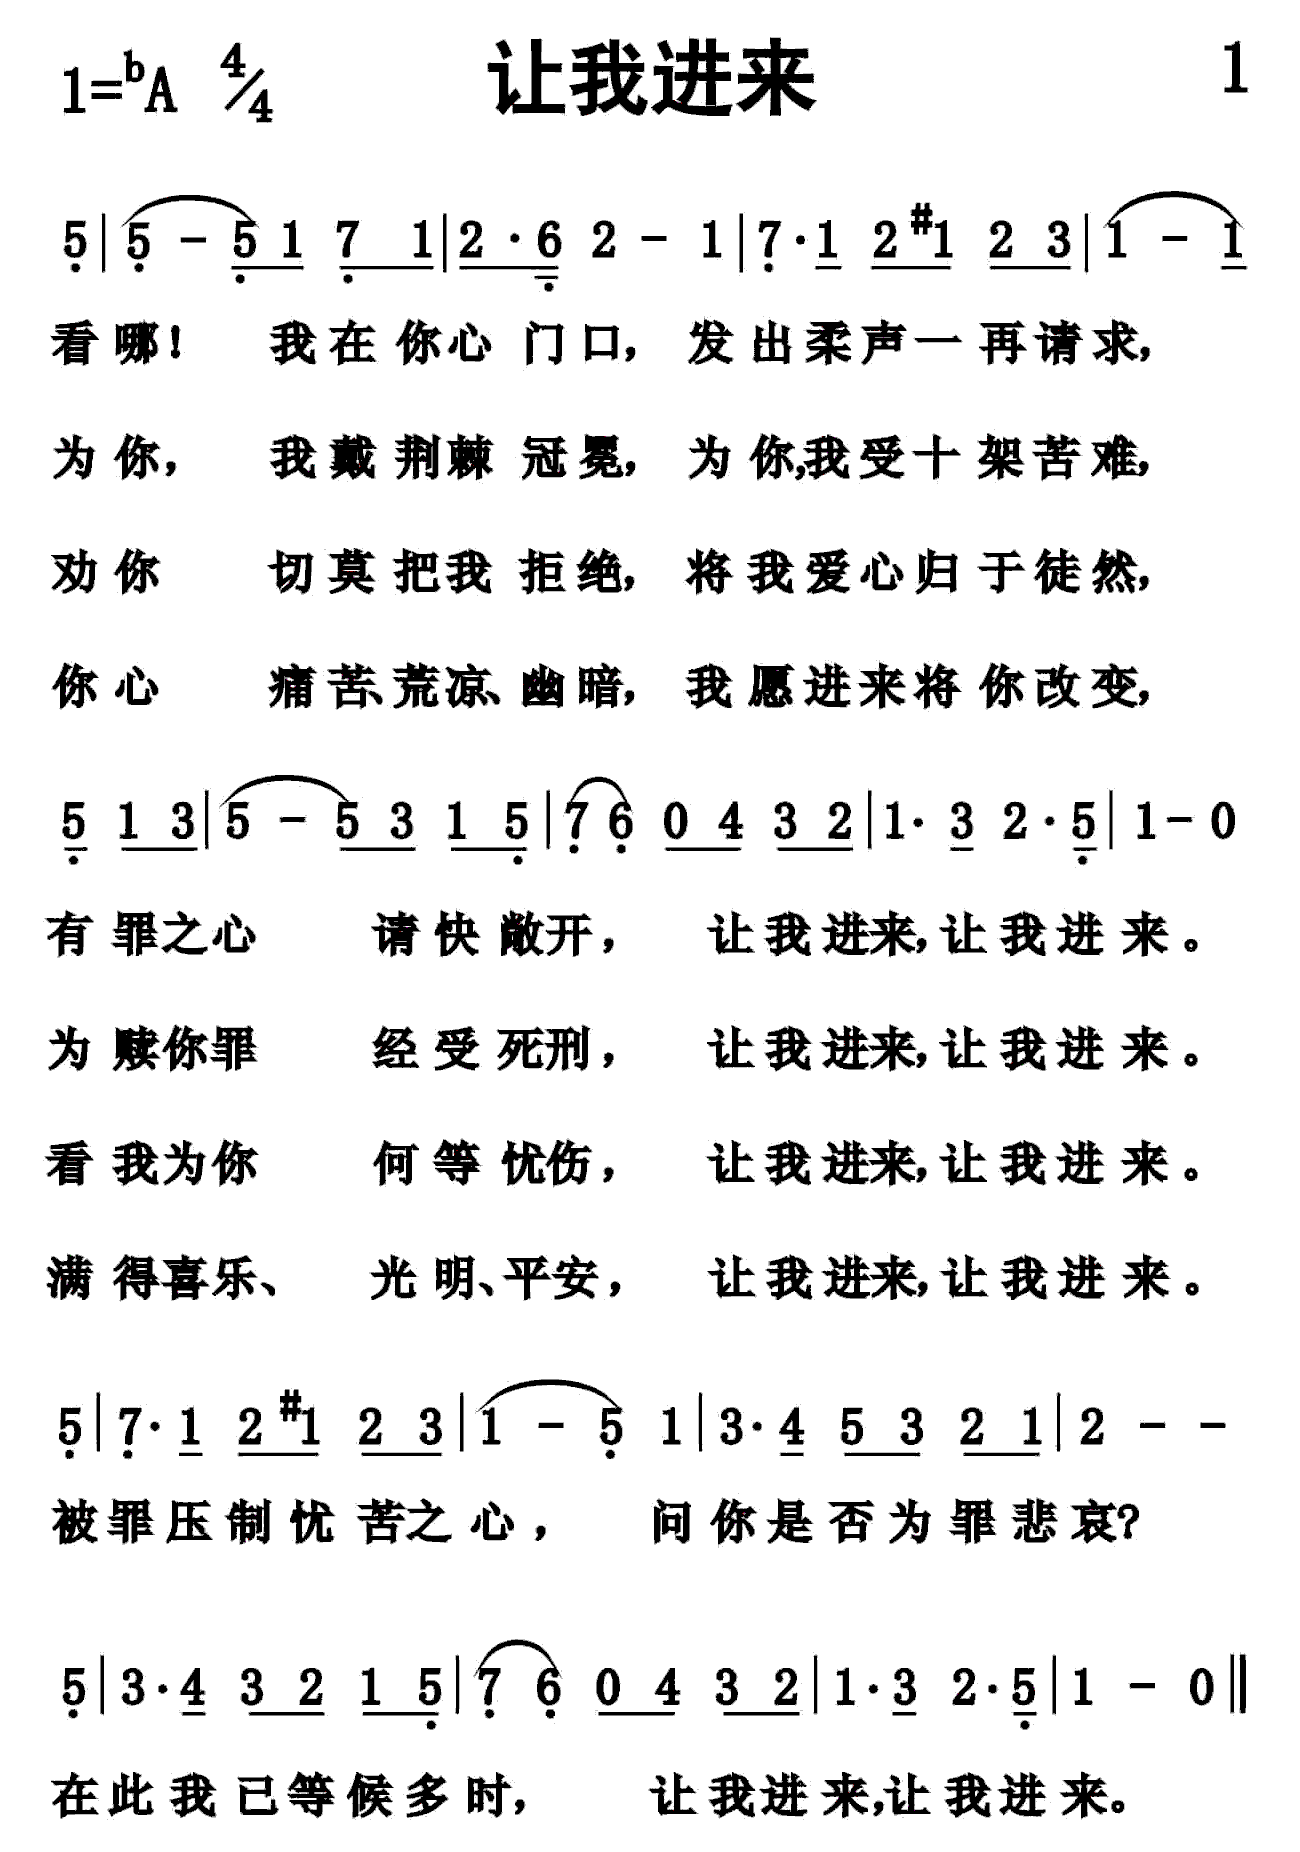
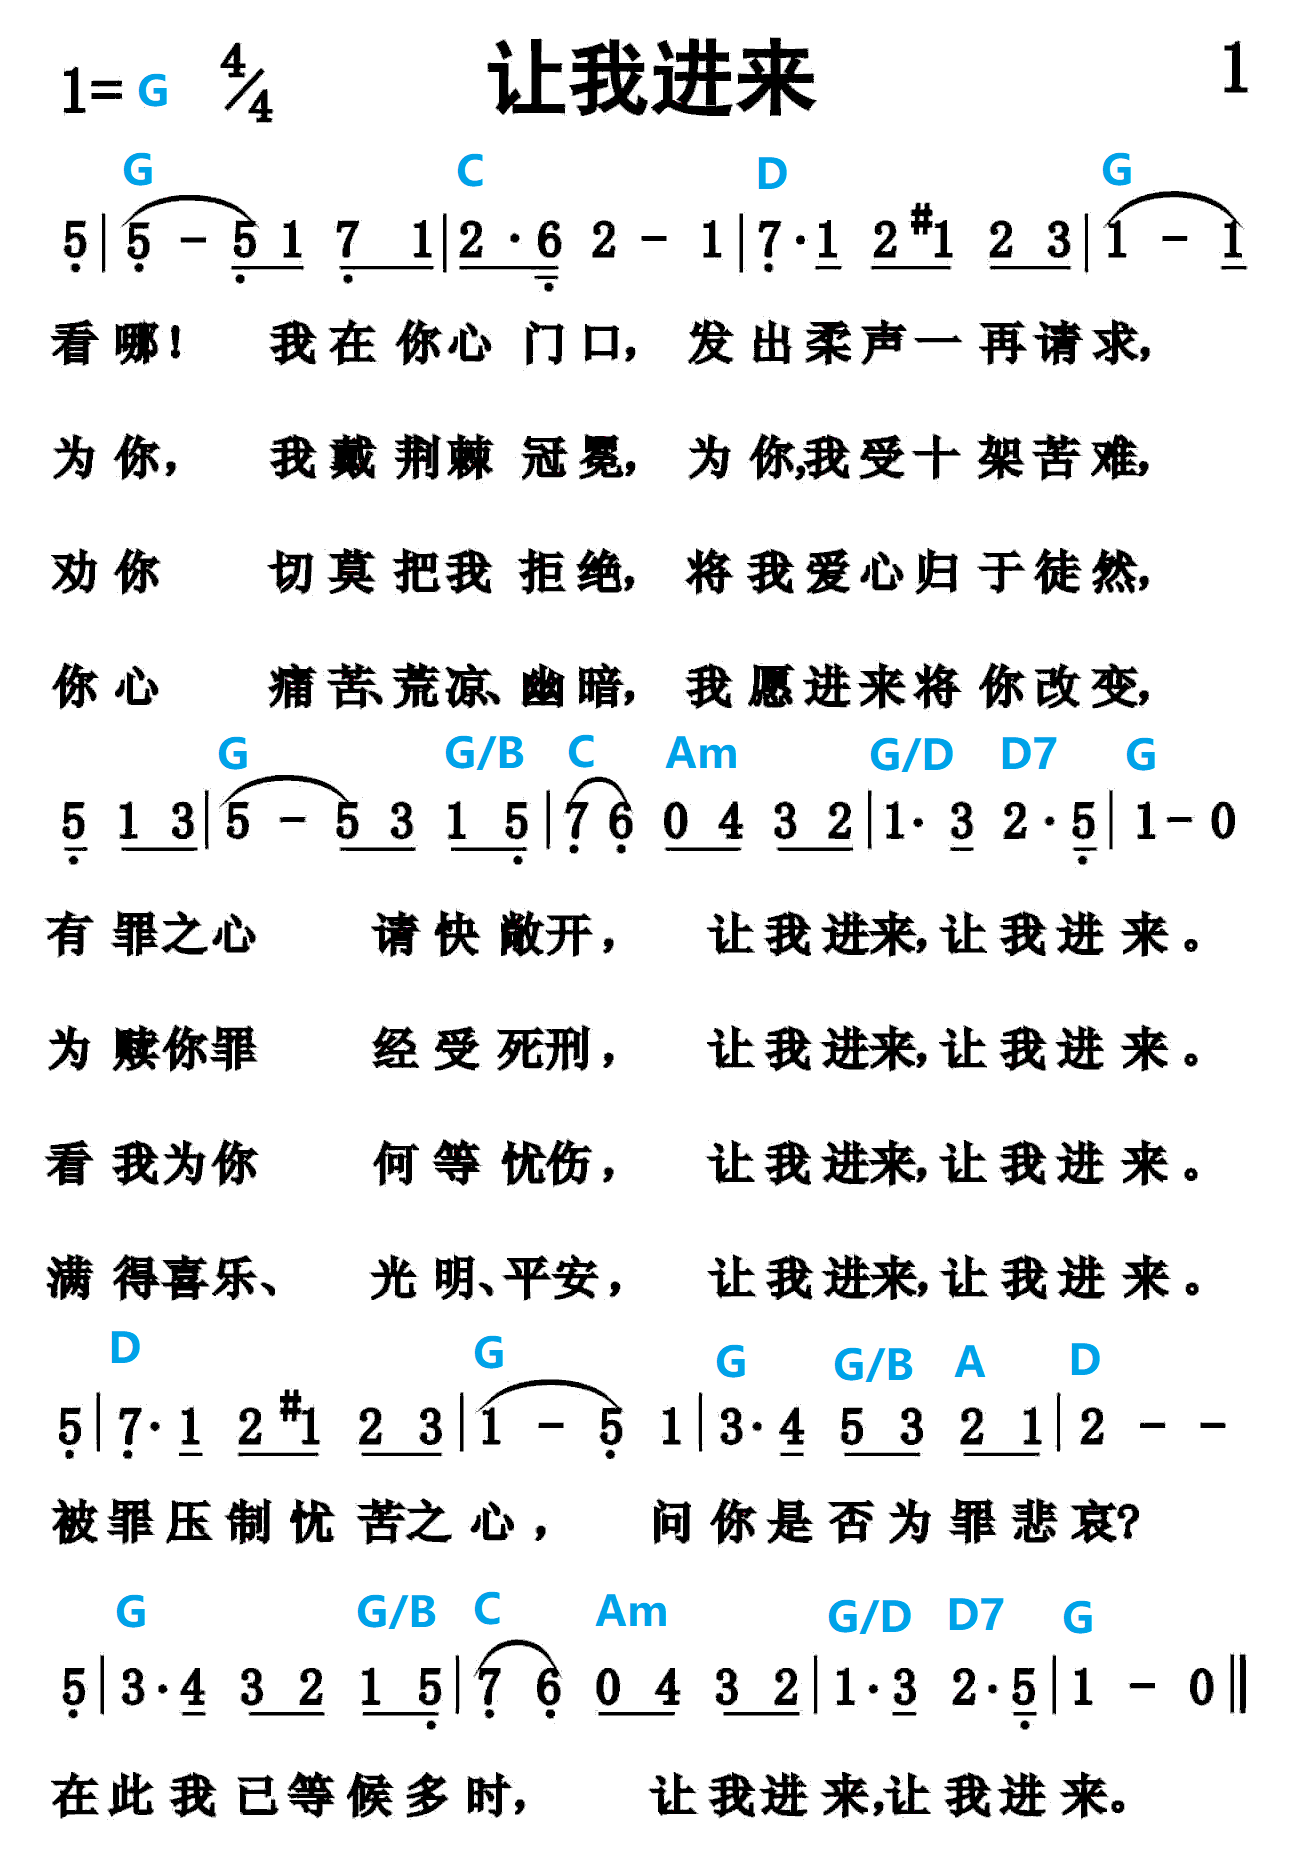
song1 chord

diff --git a/songbook1/song1.html b/songbook1/song1.html
@@ -90,9 +90,16 @@
         <img src="../images/songbook1/song1.jpg" alt="第1页">
         <!-- 新的文本框 -->
         <div class="image-description">
-            <h2>和弦理解</h2>
-            <p>这是一个<strong>加粗</strong>并且缩进2个字符的段落。</p>
-            <p class="no-indent">这是一个不需要缩进的段落。</p>
+            <h2>和弦解释</h2>
+            <p class="no-indent">一、第一行（主歌）</p>
+            <p>开头是5，结尾是1，基本确定是大调，这是G调，所以第一小节和最后一小节是G和弦。</p>
+            <p>第二小节是2和6，可以用2级，但显普通，用4级就是C和弦，听起来效果更好（这里根据个人习惯）；第三小节7和2占主要的，并且第四小节是1，这里基本都是G和弦，前面一般都是5级和弦，因此是D和弦。</p>
+            <p class="no-indent">二、第二行（主歌）</p>
+            <p>第一小节是5315，就是1级G和弦，第二小节7和6，用4级（后期解释），从1级去4级，可以用一级的3作为根音，去四级更顺畅，所以在第一小节最后一拍加了过渡G/B和弦。第二小节后面4有2，3可以忽略，就用2级，第三小节之后的第四小节是1，又是1级G和弦，所以前面也是5级D和弦，在D和弦之前，是1和3，可以用1级和弦，但是用根音为5，就是G/D。</p>
+            <p class="no-indent">三、第三行（副歌）</p>
+            <p>第一小节是7和2，用5级，第二小节151，用1级G，第三小节3有附点长音，仍然是1级，最后一小节是2，是5级D，5级前面可以用A，就像把D当成临时1级，那么临时五级就是A，声音效果很好。从G去A和弦，中间加一个G/B来过渡，不加也可以。</p>
+            <p class="no-indent">四、第四行（副歌）</p>
+            <p>第一小节是315居多，是1级，后面和主歌第二行一样。</p>
         </div>
     </div>
 </body>
